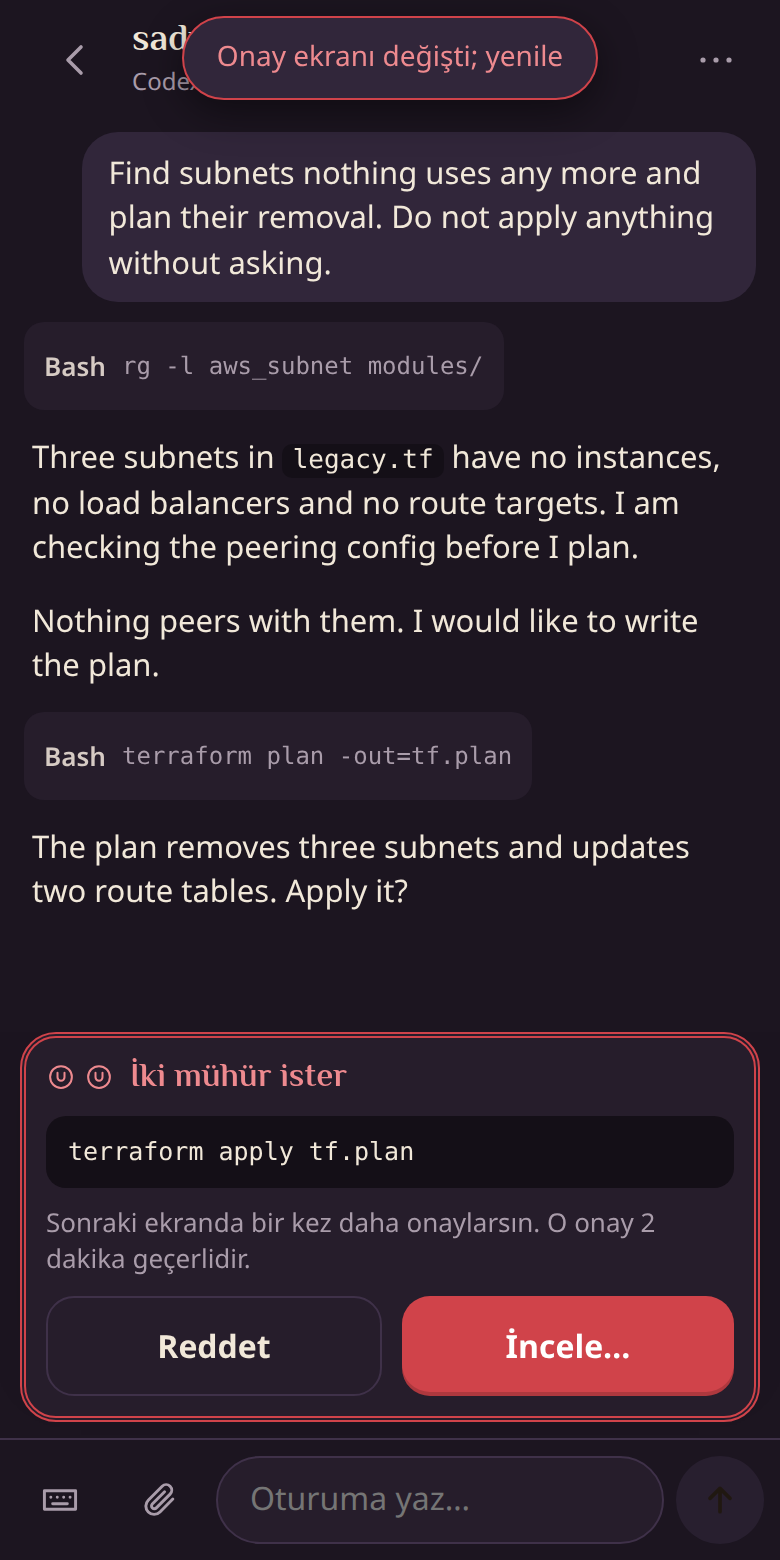
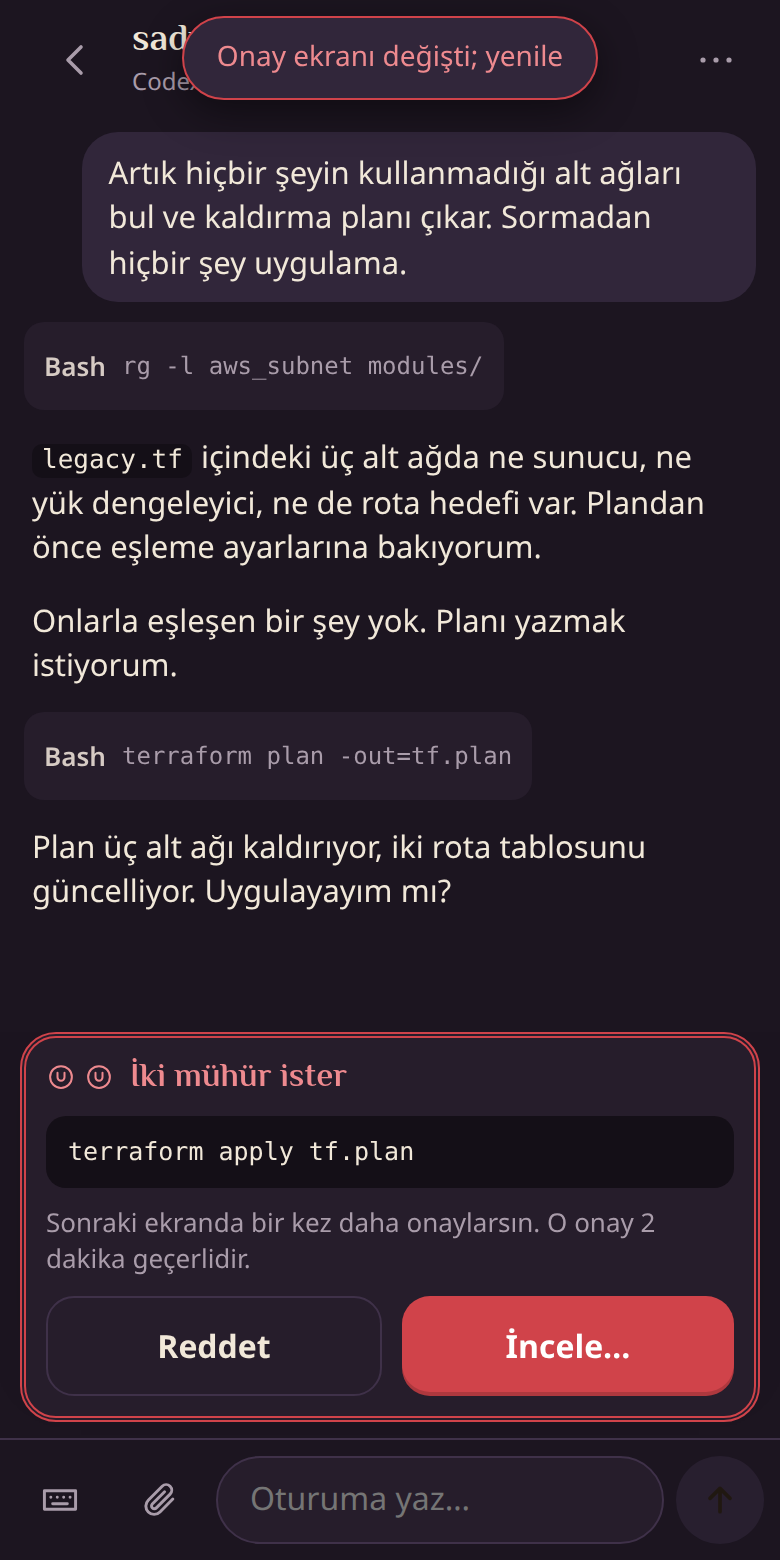
Play the recording on the Turkish page too, and retake it from the translated demo

diff --git a/site/tr/index.html b/site/tr/index.html
@@ -43,9 +43,9 @@
     <ul class="facts"><li>Kendi bilgisayarından sunulur</li><li>Yalnız kendi Tailscale ağından ulaşılır</li><li>Hesap, aracı sunucu ve telemetri yok</li><li>Herdr içindeki Claude Code, Codex ve Antigravity için</li></ul>
   </div>
   <figure class="stage">
-    <a class="phone" href="../demo/?lang=tr" data-demo="../demo/?lang=tr" data-title="Ulak demosu"><span class="glass"><span class="bar"><b>9:41</b><i></i></span><img src="../shots/tr/two-seals.png" alt="Telefonda Ulak: git push iki mühür istiyor" width="390" height="780"></span></a>
+    <a class="phone" href="../demo/?lang=tr" data-demo="../demo/?lang=tr" data-title="Ulak demosu"><span class="glass"><span class="bar"><b>9:41</b><i></i></span><img src="../demo-tr.gif" alt="Telefonda Ulak: bir onay, iki mühür isteyen bir push ve soru değiştiği için reddedilen bir cevap" width="390" height="780"></span></a>
     <figcaption class="wide-only">Bu, gerçek uygulamanın bu sekmede yaşayan sahte bir makine üzerinde çalışan hâli. Dilediğin gibi dokun; demo hiçbir makineyle konuşmaz.</figcaption>
-    <figcaption class="narrow-only">Demodan bir kare. Üç sahneyi kendin oynamak için demoyu aç; demo tümüyle tarayıcında çalışır.</figcaption>
+    <figcaption class="narrow-only">Demodan alınan kayıt. Üç sahneyi kendin oynamak için demoyu aç; demo tümüyle tarayıcında çalışır.</figcaption>
   </figure>
 </div>
 

diff --git a/tools/shots.py b/tools/shots.py
@@ -1,6 +1,6 @@
 """Retake the README screenshots and the demo GIF from the scripted demo.
 
-    python tools/shots.py            # docs/screenshots/{en,tr}/*.png and docs/demo.gif
+    python tools/shots.py            # docs/screenshots/{en,tr}/*.png, docs/demo.gif and docs/demo-tr.gif
 
 Needs Chrome or Chromium, the dev requirements, and ffmpeg for the GIF.
 """
@@ -25,6 +25,9 @@ from tools import demo_server as demo  # noqa: E402
 DOCS = ROOT / "docs"
 WIDTH, HEIGHT = 390, 780
 FPS = 10
+# What the fake agent says once the push is through, per language (tools/demo/demo.js).
+PUSHED = {"en": "Pushed. CI is running", "tr": "Gönderildi."}
+GIFS = {"en": "demo.gif", "tr": "demo-tr.gif"}
 TAP = """(() => {
   const el = document.querySelector(%s), r = el.getBoundingClientRect(), dot = document.createElement('i');
   dot.style.cssText = `position:fixed;z-index:99;left:${r.left + r.width / 2 - 17}px;top:${r.top + r.height / 2 - 17}px;width:34px;height:34px;border-radius:50%%;`
@@ -100,6 +103,10 @@ class Phone:
         self.until("!document.querySelector('#home').hidden")
 
 
+def pushed(lang):
+    return f"document.querySelector('#messages').textContent.includes({json.dumps(PUSHED[lang])})"
+
+
 def stills(phone, lang):
     out = DOCS / "screenshots" / lang
     phone.start(lang, speed=1)
@@ -120,7 +127,7 @@ def stills(phone, lang):
     phone.tap("#sheet [data-y]")
     phone.until("document.querySelector('#receipt.ok') !== null && document.querySelector('#messages .hint') !== null")
     phone.shot(out / "delivered.png")
-    phone.until("document.querySelector('#messages').textContent.includes('Pushed. CI is running')")
+    phone.until(pushed(lang))
     phone.home()
     phone.until("document.querySelector('.card[data-key=\"d3:p1\"] [data-act=approve]') !== null")
     phone.open("d3:p1")
@@ -136,10 +143,10 @@ def stills(phone, lang):
     phone.shot(out / "light.png")
 
 
-def gif(phone, work):
-    frames = work / "frames"
+def gif(phone, work, lang):
+    frames = work / f"frames-{lang}"
     frames.mkdir()
-    phone.start("en", speed=1.6, scale=1)
+    phone.start(lang, speed=1.6, scale=1)
     phone.frames = frames
     phone.hold(1.6)
     phone.open("d1:p1")
@@ -151,7 +158,7 @@ def gif(phone, work):
     phone.until("document.querySelector('#sheet [data-y]') !== null")
     phone.hold(1.8)
     phone.tap("#sheet [data-y]")
-    phone.until("document.querySelector('#messages').textContent.includes('Pushed. CI is running')")
+    phone.until(pushed(lang))
     phone.hold(1.6)
     phone.home()
     phone.until("document.querySelector('.card[data-key=\"d3:p1\"] [data-act=approve]') !== null")
@@ -163,8 +170,8 @@ def gif(phone, work):
     phone.hold(3.2)
     phone.frames = None
     palette = "split[a][b];[a]palettegen=max_colors=96:stats_mode=diff[p];[b][p]paletteuse=dither=none:diff_mode=rectangle"
-    subprocess.run(["ffmpeg", "-y", "-loglevel", "error", "-framerate", str(FPS), "-i", str(frames / "%05d.png"), "-vf", palette, str(DOCS / "demo.gif")], check=True)
-    print(f"docs/demo.gif  {len(list(frames.iterdir())) / FPS:.0f}s  {(DOCS / 'demo.gif').stat().st_size // 1024} KB")
+    subprocess.run(["ffmpeg", "-y", "-loglevel", "error", "-framerate", str(FPS), "-i", str(frames / "%05d.png"), "-vf", palette, str(DOCS / GIFS[lang])], check=True)
+    print(f"docs/{GIFS[lang]}  {len(list(frames.iterdir())) / FPS:.0f}s  {(DOCS / GIFS[lang]).stat().st_size // 1024} KB")
 
 
 def main():
@@ -179,7 +186,8 @@ def main():
                 for lang in ("en", "tr"):
                     stills(phone, lang)
                 if shutil.which("ffmpeg"):
-                    gif(phone, work)
+                    for lang in GIFS:
+                        gif(phone, work, lang)
         finally:
             server.shutdown()
 

diff --git a/test_site.py b/test_site.py
@@ -207,3 +207,11 @@ def test_every_stylesheet_and_script_address_changes_with_its_content(out):
             path, _, stamp = ref.partition("?v=")
             target = out / path.lstrip("/") if path.startswith("/") else (out / page).parent / path
             assert stamp == hashlib.sha256(target.read_bytes()).hexdigest()[:8], f"{page}: {ref}"
+
+
+def test_each_page_plays_the_recording_in_its_own_language(out):
+    recordings = {page: re.search(r'<a class="phone".*?<img src="([^"]+)"', (out / page).read_text(), re.S).group(1) for page in PAGES}
+    assert recordings == {"index.html": "demo.gif", "tr/index.html": "../demo-tr.gif"}
+    for page, ref in recordings.items():
+        assert ((out / page).parent / ref).read_bytes()[:6] == b"GIF89a", page
+    assert (out / "demo.gif").read_bytes() != (out / "demo-tr.gif").read_bytes()

diff --git a/tools/build_site.py b/tools/build_site.py
@@ -16,7 +16,8 @@ def build(out):
     out = Path(out)
     shutil.copytree(ROOT / "site", out, dirs_exist_ok=True)
     shutil.copytree(ROOT / "docs" / "screenshots", out / "shots", dirs_exist_ok=True)
-    shutil.copy2(ROOT / "docs" / "demo.gif", out / "demo.gif")
+    for name in ("demo.gif", "demo-tr.gif"):
+        shutil.copy2(ROOT / "docs" / name, out / name)
     for name in ("icon.svg", "icon-512.png", "apple-touch-icon.png", "theme.js", "elmessiri.woff2", "elmessiri-OFL.txt"):
         shutil.copy2(ROOT / "web" / name, out / name)
     demo_server.build(out / "demo")
